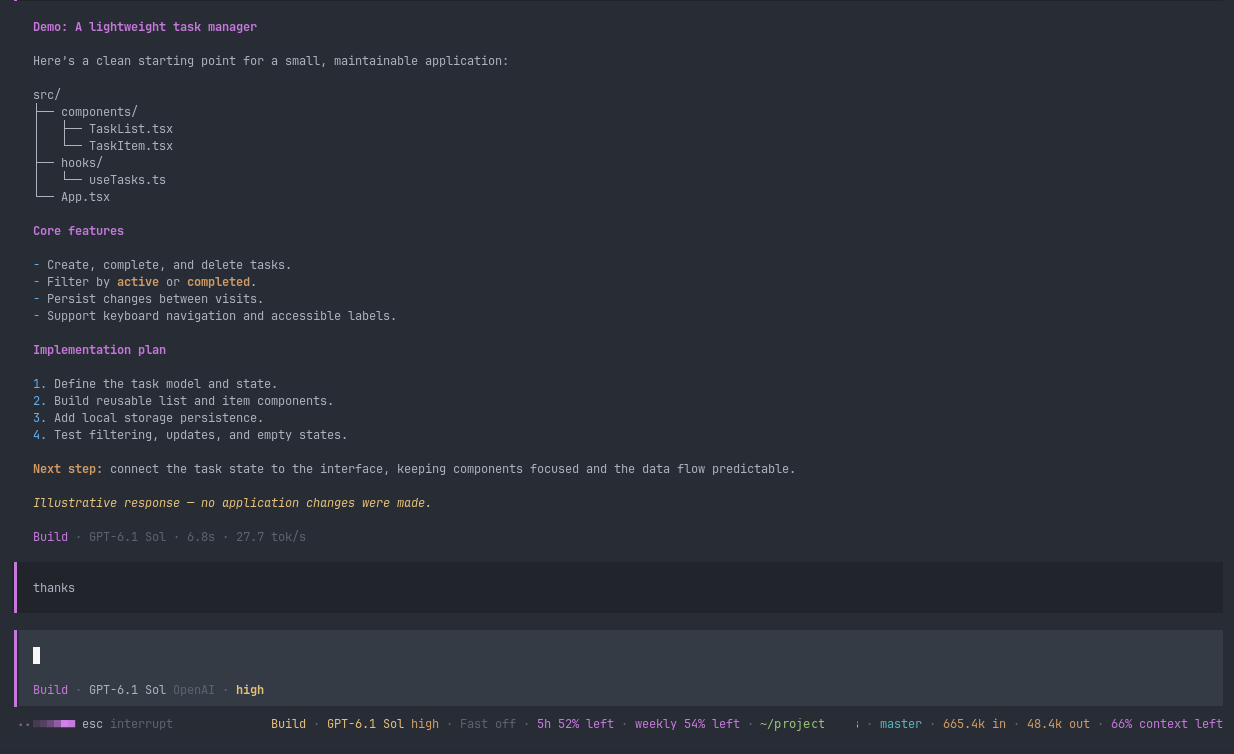
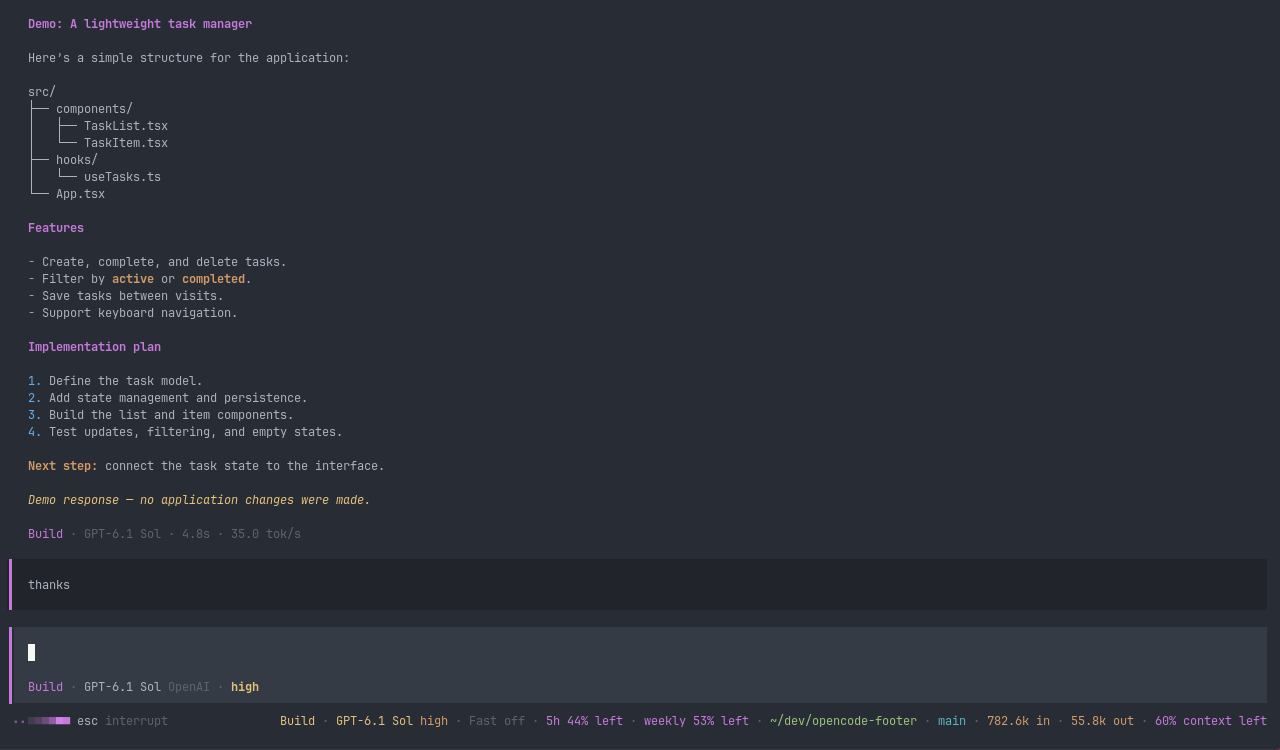
Replace demo screenshot and remove extra README explanations

diff --git a/README.md b/README.md
@@ -12,13 +12,10 @@ wraps to fit the terminal.
 
 ![OpenCode session with opencode-footer showing model, Codex quotas, project, Git branch, token usage, and remaining context](https://raw.githubusercontent.com/silva96/opencode-footer/main/docs/images/footer-demo.png)
 
-*Demo session; project path anonymized.*
-
 ## Requirements
 
-- OpenCode V2. Tested on 2.0.22.
+- OpenCode V2.
 - For quotas: Codex CLI on `PATH` and a ChatGPT login in `~/.codex`.
-  Tested on Codex CLI 0.160.0.
 
 To use the footer without Codex, omit `quota` from `sections`.
 
@@ -49,9 +46,6 @@ Reopen OpenCode. To update:
 ```sh
 opencode plugin update opencode-footer
 ```
-
-To pin a release, use `opencode-footer@0.1.0` as the package specifier.
-See [OpenCode's plugin docs](https://opencode.ai/v2/docs/plugins#manage).
 
 ## Configuration
 
@@ -88,22 +82,6 @@ The default section order is `agent`, `model`, `fast`, `quota`, `path`, `branch`
 
 For a custom OpenAI provider, add its ID to `quotaProviders`. Quotas always come
 from the login in `codexHome`; use the account you want to track.
-
-## Quotas
-
-Quotas refresh every 15 seconds by default while an OpenAI provider is selected.
-Switching to another provider hides them and stops polling.
-
-The plugin uses read-only requests to [Codex App Server](https://learn.chatgpt.com/docs/app-server).
-Codex handles authentication. Results are cached in memory.
-
-- Remaining quota is `100 - usedPercent`.
-- Labels and available windows come from the server response.
-- Failed refreshes keep the last result and mark it `(stale)`.
-- Expired cached windows show `—` until the next successful response.
-
-Context remaining is estimated from token usage and the model's context limit.
-The Fast indicator is inferred from `fast` in the model's name or ID.
 
 ## Troubleshooting
 
